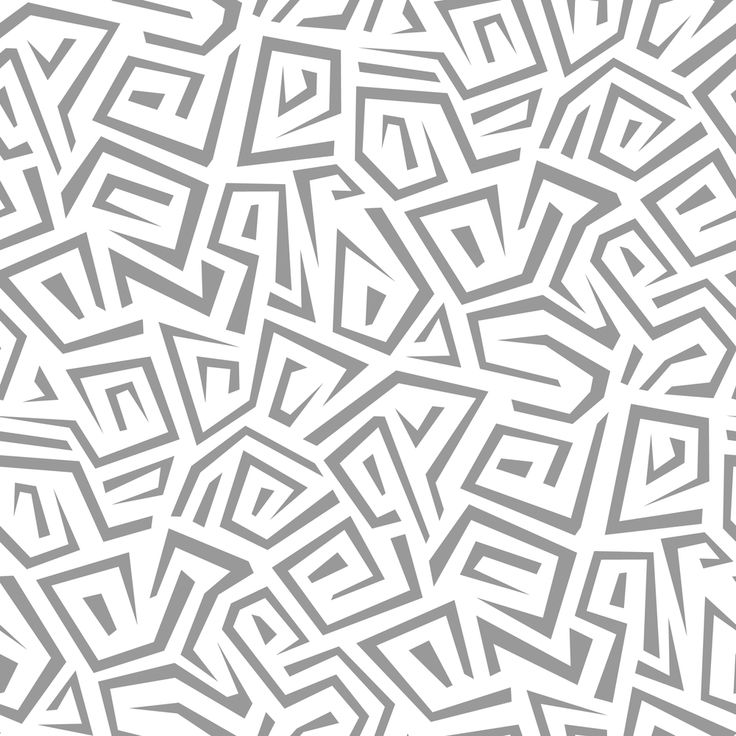
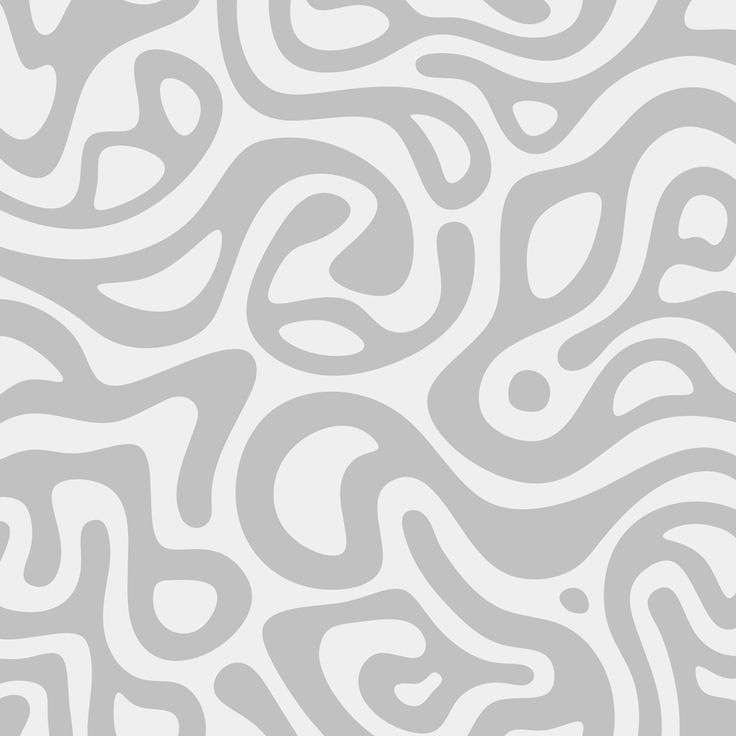
Done with contacts UI

diff --git a/src/components/BuyerTabs/pages/contact.jsx b/src/components/BuyerTabs/pages/contact.jsx
@@ -1,17 +1,46 @@
-import React from 'react';
+import React, { useState } from 'react';
 import '../BuyerTabs.css';
 import { Inner } from '../../../commons';
-import { cartB1, cartB2, cartB3, cartB4, cartB5, cartB6, cartB7, cartB8, cartB9 } from '../../../assets';
+import { cartB1, cartB2, cartB3, cartB4, cartB5, cartB6, cartB7, cartB8, cartB10 } from '../../../assets';
 import { useNavigate } from 'react-router-dom';
+import { Footer } from '../..';
+import { FaFacebook, FaPinterest, FaInstagramSquare } from "react-icons/fa";
+import { FaXTwitter } from "react-icons/fa6";
+import { AiFillTikTok } from "react-icons/ai";
+
+const InitialContactForm = {
+  name: '',
+  email: '',
+  subject: '',
+  message: '',
+}
 
 function Contact() {
+  const [form, setForm] = useState(InitialContactForm);
+
   const navigate = useNavigate();
+
+  const handleChange = (e) => {
+    const { name, value } = e.target;
+    setForm((prev) => ({
+      ...prev, [name]: value
+    }));
+  }
+
+  const ContactIcons = [
+    { name: 'FaceBook', link: '', icon: FaFacebook },
+    { name: 'X', link: '', icon: FaXTwitter },
+    { name: 'Pinterest', link: '', icon: FaPinterest },
+    { name: 'Instagram', link: '', icon: FaInstagramSquare },
+    { name: 'Tiktok', link: '', icon: AiFillTikTok },
+
+  ]
 
   return (
     <Inner>
       <section className='min-h-[30vh] flex flex-col justify-center items-center overflow-hidden'
         style={{
-          backgroundImage: `url(${cartB9})`,
+          backgroundImage: `url(${cartB10})`,
           backgroundSize: 'cover',
           backgroundPosition: 'center',
           backgroundRepeat: 'no-repeat'
@@ -31,6 +60,143 @@ function Contact() {
               </a>
           </span>
       </section>
+      
+      <section className='min-h-[40vh] px-[2%] my-6'>
+        <div className='grid grid-cols-2 gap-3 contactForms3'>
+          <div className='flex flex-col gap-2'>
+            <div className='flex flex-col my-3'>
+              <h2 className='font-semibold leading-relaxed text-xl text-dark'>
+                Get in Touch
+              </h2>
+              <p className='text-base text-gray-700 leading-relaxed'>
+                Your email will not be shared. All fields marked with * are required
+              </p>
+            </div>
+            <form className='flex flex-col gap-2 space-y-2'>
+              <div className='grid grid-cols-2 gap-3 w-full contactNEm'>
+                <div className='flex flex-col gap-1'>
+                  <label className='font-semibold text-sm'>Your Name *</label>
+                  <input
+                    type='text'
+                    required
+                    name='name'
+                    value={form.name}
+                    onChange={handleChange}
+                    placeholder='John Doe'
+                    className='rounded-full border-[1.3px] border-gray-400  text-gray-700 p-2 focus:outline-none focus:border-orange-400 focus:bg-gray-100'
+                  />
+                </div>
+                <div className='flex flex-col gap-1'>
+                  <label className='font-semibold text-sm'>Email *</label>
+                  <input
+                    type='text'
+                    required
+                    name='email'
+                    value={form.email}
+                    onChange={handleChange}
+                    placeholder='johndoe@gmail.com'
+                    className='rounded-full border-[1.3px] border-gray-400 p-2 focus:outline-none focus:border-orange-400 focus:bg-gray-100'
+                  />
+                </div>
+              </div>
+
+              <div className='flex flex-col gap-1'>
+                <label className='font-semibold text-sm'>Subject *</label>
+                <input
+                  type='text'
+                  required
+                  name='subject'
+                  value={form.subject}
+                  onChange={handleChange}
+                  placeholder='Enter Subject'
+                  className='rounded-full border-[1.3px] border-gray-400  p-2 focus:outline-none focus:border-orange-400 focus:bg-gray-100'
+                />
+              </div>
+
+              <div className='flex flex-col gap-1'>
+                <label className='font-semibold text-sm'>Email *</label>
+                <textarea
+                  type='text'
+                  required
+                  rows={6}
+                  name='message'
+                  value={form.message}
+                  onChange={handleChange}
+                  placeholder='Enter message...'
+                  className='rounded-xl border-[1.3px] border-gray-400 p-2 focus:outline-none focus:border-orange-400 focus:bg-gray-100'
+                />
+              </div>
+
+              <button 
+                className='text-white bg-dark rounded-full px-3 py-2 w-fit cursor-pointer'>
+                  Sent Message
+                </button>
+            </form>
+          </div>
+          
+          <div className='flex item-center justify-center'>
+            <div className='bg-dark text-white w-[65%] rounded-xl p-4 flex flex-col justify-between contactET0988'>
+              <div className='flex flex-col space-y-1'>
+                <h4 className='text-lg text-white'>Address</h4>
+                <p className='leading-relaxed text-muted text-sm'>
+                  UpperHill, Nairobi 2213-00100
+                </p>
+              </div>
+
+              <div className='flex flex-col space-y-1'>
+                <h4 className='text-lg text-white'>Contact</h4>
+                <div className='flex flex-col gap-2'>
+                  <p className='leading-relaxed text-muted text-sm'>
+                    Phone: +254 799 863 940
+                  </p>
+                  <p className='leading-relaxed text-muted text-sm'>
+                    Email: info@sellory.com
+                  </p>
+                </div>
+              </div>
+
+              <div className='flex flex-col space-y-1'>
+                <h4 className='text-lg text-white'>Open Time</h4>
+                <div className='flex flex-col gap-2'>
+                  <p className='leading-relaxed text-muted text-sm'>
+                    Monday - Friday : 9:00 - 17:00
+                  </p>
+                  <p className='leading-relaxed text-muted text-sm'>
+                    Saturday - Sunday: 9:00 - 14:00
+                  </p>
+                </div>
+              </div>
+
+              <div className='flex flex-col space-y-1'>
+               <h4 className='text-lg text-white'>Stay Connected</h4>
+               <div className='flex items-center gap-3'>
+                 {ContactIcons.map((item) => {
+                  const Icon = item.icon
+                  return (
+                    <span className='p-2 rounded-full bg-orange-400 cursor-pointer'>
+                      <Icon className='text-dark RevStarComm' size={23} />
+                    </span>
+                  )
+                 })}
+               </div>
+              </div>
+            </div>
+          </div>
+        </div>
+      </section>
+
+      <section className='h-[50vh] my-6 w-full'>
+        <iframe 
+        src='https://www.google.com/maps/embed?pb=!1m18!1m12!1m3!1d7977.584753832562!2d36.81631775!3d-1.2993677499999998!2m3!1f0!2f0!3f0!3m2!1i1024!2i768!4f13.1!3m3!1m2!1s0x182f10e7afcbe647%3A0x8c73172faa633890!2sUpper%20Hill%2C%20Nairobi!5e0!3m2!1sen!2ske!4v1777412555821!5m2!1sen!2ske' allowFullScreen='' 
+        loading='lazy' 
+        referrerPolicy='no-referrer-when-downgrade' 
+        className='w-full h-full border-0'
+        />
+      </section>
+
+      <div className='p-2'>
+        <Footer />
+      </div>
     </Inner>
   )
 }

diff --git a/src/assets/index.js b/src/assets/index.js
@@ -85,5 +85,7 @@ import cartB6 from './cartB6.jpg';
 import cartB7 from './cartB7.jpg';
 import cartB8 from './cartB8.jpg';
 import cartB9 from './cartB9.jpg';
+import cartB10 from './cartB10.jpg';
+import cartB11 from './cartB11.jpg';
 
-export { round01, round02, round03, HImg01, HImg02, HImg03, HImg04, HImg05, Prod01, Prod02, Prod03, Prod04, Prod05, Prod06, WPink, WYellow, Create, Hand, wSec01, wSec02, wSec03, wSec04, wSec05, wSec06, wSec07, wSec011, wSec012, wSec013, BB01,BB02, BP01, BP02, BS01, BS02, PKo01, PKo02, PKo03, PJo01, PJo02, PTo01, PLo01, Amina, Brian, Daniel, Kevin, Linda, Sarah, Logo01, Logo02, Kenyan, SIbc01, SIbc02, SignIn01, SignIn02, ImgP, shoe1, shoe2, clothe1, clothe2, HPhone1, HPhone2, FHome1, FHome2, Axis, fan, vision, hp, Tv, Lazuli, CatFur, CatJel, CatMen, CatSne, CatToy, CatWat, CatWom, Sub, detail, cartB1, cartB2, cartB3, cartB4, cartB5, cartB6, cartB7, cartB8, cartB9 };
+export { round01, round02, round03, HImg01, HImg02, HImg03, HImg04, HImg05, Prod01, Prod02, Prod03, Prod04, Prod05, Prod06, WPink, WYellow, Create, Hand, wSec01, wSec02, wSec03, wSec04, wSec05, wSec06, wSec07, wSec011, wSec012, wSec013, BB01,BB02, BP01, BP02, BS01, BS02, PKo01, PKo02, PKo03, PJo01, PJo02, PTo01, PLo01, Amina, Brian, Daniel, Kevin, Linda, Sarah, Logo01, Logo02, Kenyan, SIbc01, SIbc02, SignIn01, SignIn02, ImgP, shoe1, shoe2, clothe1, clothe2, HPhone1, HPhone2, FHome1, FHome2, Axis, fan, vision, hp, Tv, Lazuli, CatFur, CatJel, CatMen, CatSne, CatToy, CatWat, CatWom, Sub, detail, cartB1, cartB2, cartB3, cartB4, cartB5, cartB6, cartB7, cartB8, cartB9, cartB10, cartB11 };

diff --git a/src/components/BuyerTabs/pages/checkoutDetails.jsx b/src/components/BuyerTabs/pages/checkoutDetails.jsx
@@ -2,9 +2,9 @@ import React, { useState } from 'react';
 import '../BuyerTabs.css';
 import { useParams } from 'react-router-dom';
 import useCheckout from '../../../Hooks/useCheckout';
-import { AdLoader } from '../../';
+import { AdLoader, Footer } from '../../';
 import { FiCheckCircle } from "react-icons/fi";
-import { cartB1, cartB2, cartB3, cartB4, cartB5, cartB6 } from '../../../assets';
+import { cartB1, cartB2, cartB3, cartB4, cartB5, cartB11 } from '../../../assets';
 import { Inner } from '../../../commons';
 import { Toaster } from 'react-hot-toast';
 import { useNavigate } from 'react-router-dom';
@@ -56,7 +56,7 @@ function CheckoutDetails() {
       <Toaster position='top-right' reverseOrder={false} />
       <section className='min-h-[30vh] flex flex-col justify-center items-center overflow-hidden'
         style={{
-          backgroundImage: `url(${cartB6})`,
+          backgroundImage: `url(${cartB11})`,
           backgroundSize: 'cover',
           backgroundPosition: 'center',
           backgroundRepeat: 'no-repeat'
@@ -312,6 +312,10 @@ function CheckoutDetails() {
           <p className='text-red-500'>Checkout session expired or not found</p>
         </div>
       )}
+
+      <div className='p-2'>
+        <Footer />
+      </div>
     </Inner>
   );
 }

diff --git a/src/components/BuyerTabs/pages/checkout.jsx b/src/components/BuyerTabs/pages/checkout.jsx
@@ -5,7 +5,7 @@ import { cartB1, cartB2, cartB3, cartB4, cartB5, cartB6 } from '../../../assets'
 import { Inner } from '../../../commons';
 import { Toaster } from 'react-hot-toast';
 import { useNavigate } from 'react-router-dom';
-import { AdLoader } from '../../';
+import { AdLoader, Footer } from '../../';
 import useCheckout from '../../../Hooks/useCheckout';
 
 function Checkout() {
@@ -91,7 +91,7 @@ function Checkout() {
 
       <section className='min-h-[30vh] flex flex-col justify-center items-center overflow-hidden'
         style={{
-          backgroundImage: `url(${cartB4})`,
+          backgroundImage: `url(${cartB5})`,
           backgroundSize: 'cover',
           backgroundPosition: 'center',
           backgroundRepeat: 'no-repeat'
@@ -202,6 +202,9 @@ function Checkout() {
         )
       )}
       
+      <div className='p-2'>
+        <Footer />
+      </div>
     </Inner>
   )
 }

diff --git a/src/components/BuyerTabs/pages/Account.jsx b/src/components/BuyerTabs/pages/Account.jsx
@@ -1,7 +1,7 @@
 import React from 'react';
 import '../BuyerTabs.css';
 import { Inner } from '../../../commons';
-import { cartB1, cartB2, cartB3, cartB4, cartB5, cartB6, cartB7, cartB8, cartB9 } from '../../../assets';
+import { cartB1, cartB2, cartB3, cartB4, cartB5, cartB6, cartB7, cartB8, cartB9, detail } from '../../../assets';
 import { Toaster } from 'react-hot-toast';
 import { useNavigate } from 'react-router-dom';
 
@@ -13,7 +13,7 @@ function Account() {
       <Toaster position='top-right' reverseOrder={false} />
       <section className='min-h-[30vh] flex flex-col justify-center items-center overflow-hidden'
         style={{
-          backgroundImage: `url(${cartB8})`,
+          backgroundImage: `url(${detail})`,
           backgroundSize: 'cover',
           backgroundPosition: 'center',
           backgroundRepeat: 'no-repeat'

diff --git a/src/components/BuyerTabs/BuyerTabs.css b/src/components/BuyerTabs/BuyerTabs.css
@@ -193,7 +193,7 @@
     height: 30px;
     width: 30px;
   }
-  .CartTable thead th{
+  .CartTable thead th, .contactET0988 h4{
     font-size: 2.5em;
   }
   .cartItem{
@@ -244,13 +244,16 @@
 }
 
 @media(max-width: 769px){
-  .cartConGrid, .checkSession{
+  .cartConGrid, .checkSession, .contactNEm{
     grid-template-columns: repeat(1, 1fr);
+  }
+  .contactET0988{
+    width: 80%;
   }
 }
 
 @media(max-width: 626px){
-  .catTitles, .detFirstsec{
+  .catTitles, .detFirstsec, .contactForms3{
     grid-template-columns: repeat(1, 1fr);
   }
   .catHead{
@@ -324,6 +327,9 @@
   .CoupClear{
     display: flex;
     flex-direction: column;
+  }
+  .contactET0988{
+    width: 90%;
   }
 }
 
